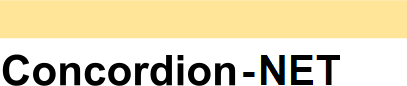
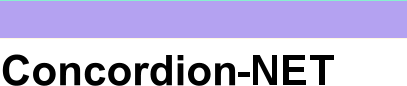
Squashed 'static-content/dotnet/' changes from b9aa3c2..4af3ce5
4af3ce5 taking banner image with new color for Concordion-NET
7e29a88 add new colored banner
96a5587 fixing merge conflicts
6dc5bae adapt to new colors for Concordion-NET
87cf546 add image on properties
0ec0a26 improve readability and add information on "Embedded Resource" for active specifications
2122988 update doc for release
cc75858 update link to github releases (don't use deprecated method of downloads)
b376e19 fix links to documenation of configuration
d068379 add link to blog about differences between tdd, bdd, and atdd
0c9f0f9 add information to use latest Concordion-NUnit-Addin on updates of Concordion
cd6ffda remove NetObjects Fusion from list of WYSIWYG editors, as it seems to not provide access to the html code for concordion tags
6a1eba1 start with a page for best practices: WYSIWYG, xhtml, templates, navigation, etc.
cdcac05 pimp the documentation
0dfcd99 add configuration tab to entire site
e169364 add description of configuration
43275d2 switch tabs
f2029ce renaming file to represent guidance on how to download
060de5a clean up documentation as preperation for release
ccabc5a fix image reference
6932797 add information on additional bug fixes and where to find more versions of Concordion-NET
26fa421 fix problems with image references
d30efa0 rename to lower case "doc"

git-subtree-dir: static-content/dotnet
git-subtree-split: 4af3ce57f86d1edacd1bc90a78bd6a73be68abbd

diff --git a/index.html b/index.html
@@ -26,14 +26,18 @@
       <div class="content">
         <p class="subtext" style="margin: 20px 0px 20px 0px; font-size: 15pt"> Concordion-Net is an open source
           framework for writing <a href="http://assertselenium.com/2012/11/05/difference-between-tdd-bdd-atdd/">automated
-            acceptance tests</a> in C#. It was initially ported from the <a href="http://concordion.org/">Java version
-            of Concordion</a>. </p>
+            acceptance tests</a> in C#.</p>
+		  <p style="font-size: 10pt; font-style: italic">
+			*
+			There are also versions for <a href="../index.html">Java</a>, Python, Scala, and Ruby. [<a href="../Ports.html">More details</a>]
+			<br />
+			</p>
         <p> It supports <a href="http://dannorth.net/introducing-bdd/">Behavior Driven Development</a> (BDD) similar to
           great tools such as <a href="http://cukes.info/">Cucumber</a>, <a href="http://www.specflow.org/">SpecFlow</a>,
           <a href="http://fitnesse.org/">FitNesse</a>, and <a href="http://nbehave.org/">NBehave</a>. According to the
           excellent <a href="http://blog.jonasbandi.net/2010/03/classifying-bdd-tools-unit-test-driven.html">classification
-            of BDD tools</a>, it focuses on business readable input (and reaches business readable output as well).
-          Concordion acceptance tests are so readable, they can double up as system documentation. They are written in
+            of BDD tools</a>, it focuses on business readable input (and reaches business readable output as well).</p>
+		  <p> Concordion acceptance tests are so readable, they can double up as system documentation. They are written in
           HTML, so can be easily hyperlinked into a navigable structure. And, since the tests run against the system,
           you can be confident the documentation is always up-to-date.</p>
         <h2 style="margin-bottom: 0px; border-bottom : 1px dotted black; padding-bottom: 6px;">Here you find some
